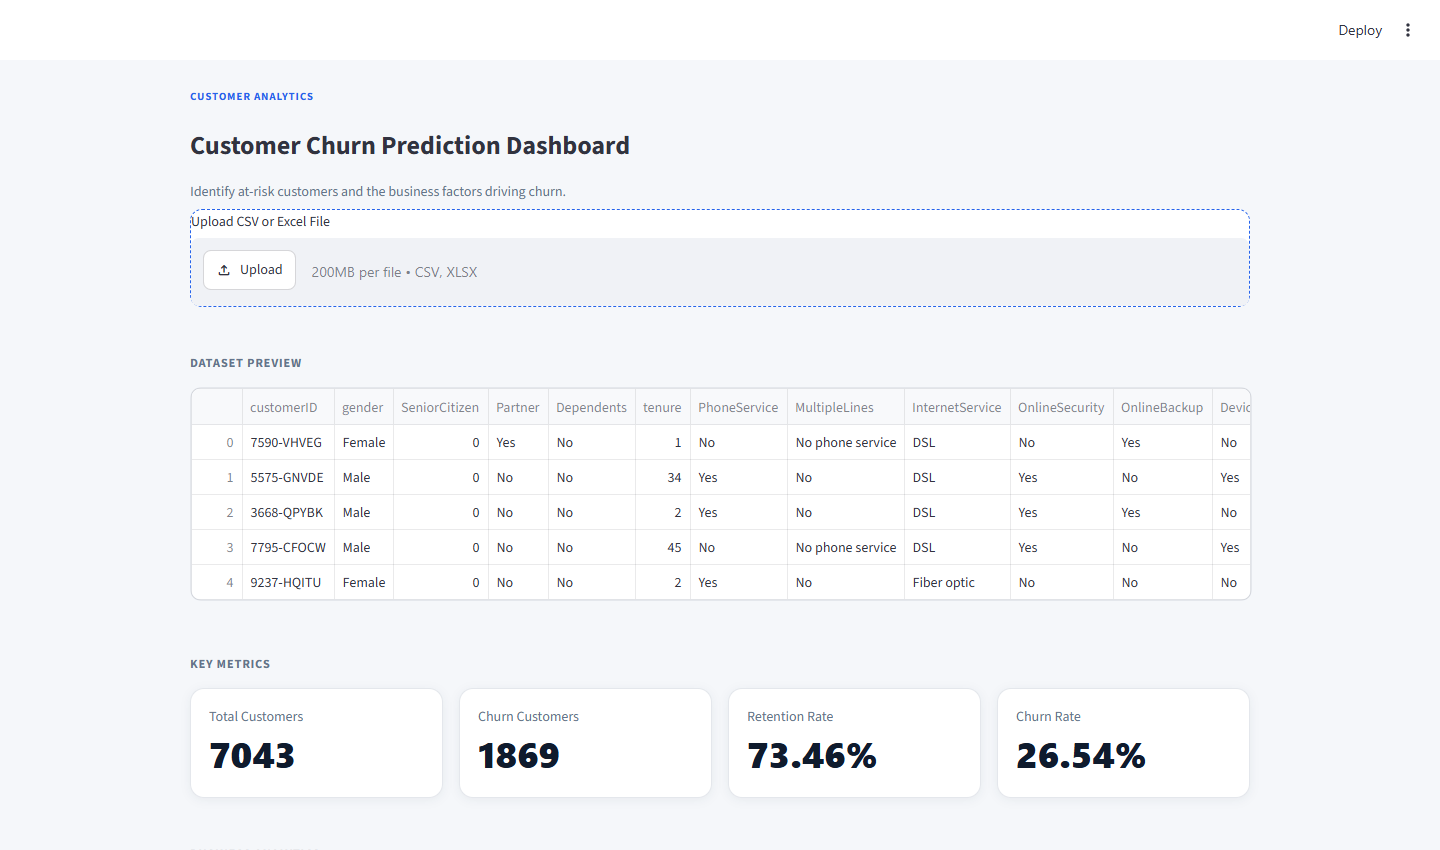
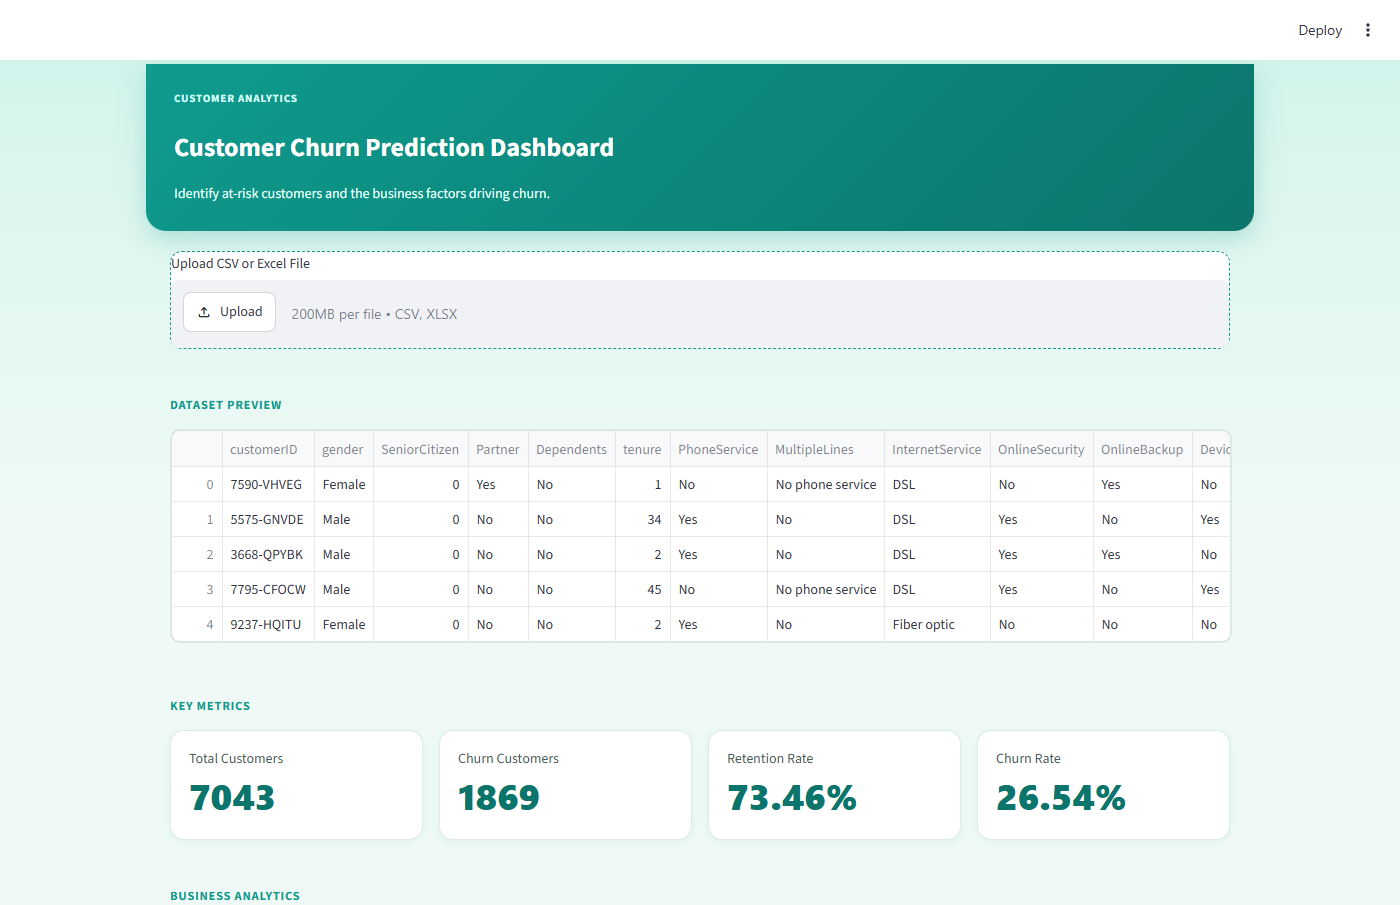
Deepen page background tint and refresh README screenshots
Boosts the app background from a near-white wash to a clearly
visible mint-teal gradient behind the white cards, and updates all
three README screenshots to reflect the current theme.

diff --git a/app.py b/app.py
@@ -43,7 +43,7 @@ st.markdown(
     """
     <style>
     .stApp {
-        background: linear-gradient(180deg, #F2FBFA 0%, #F7FBFA 320px, #F7FBFA 100%);
+        background: linear-gradient(180deg, #CDF3EA 0%, #DFF6EF 220px, #EFFAF6 520px, #F5FBF9 100%);
         font-family: 'Inter', 'Segoe UI', sans-serif;
     }
     .block-container { padding-top: 4.5rem; padding-bottom: 3rem; max-width: 1220px; }
